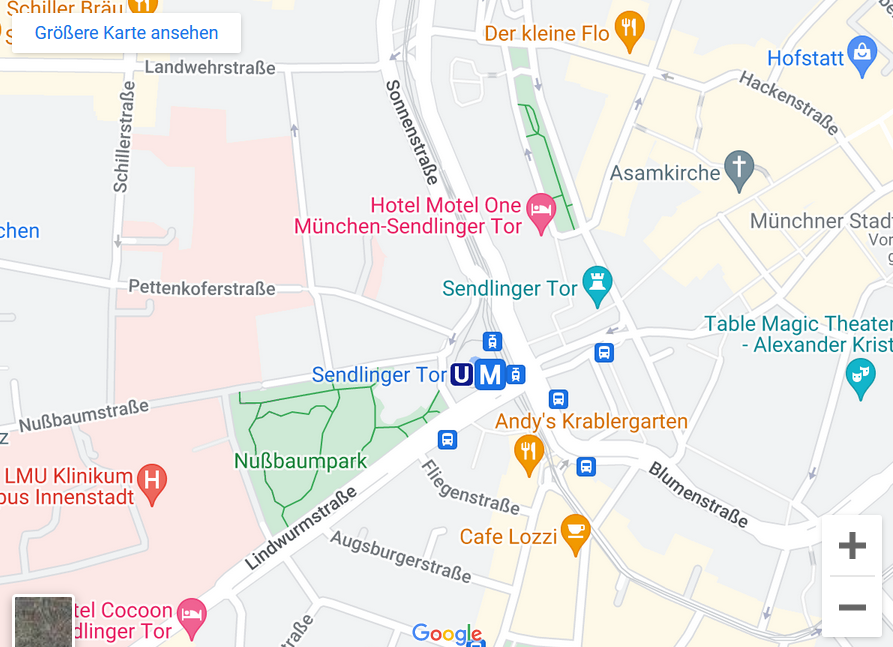
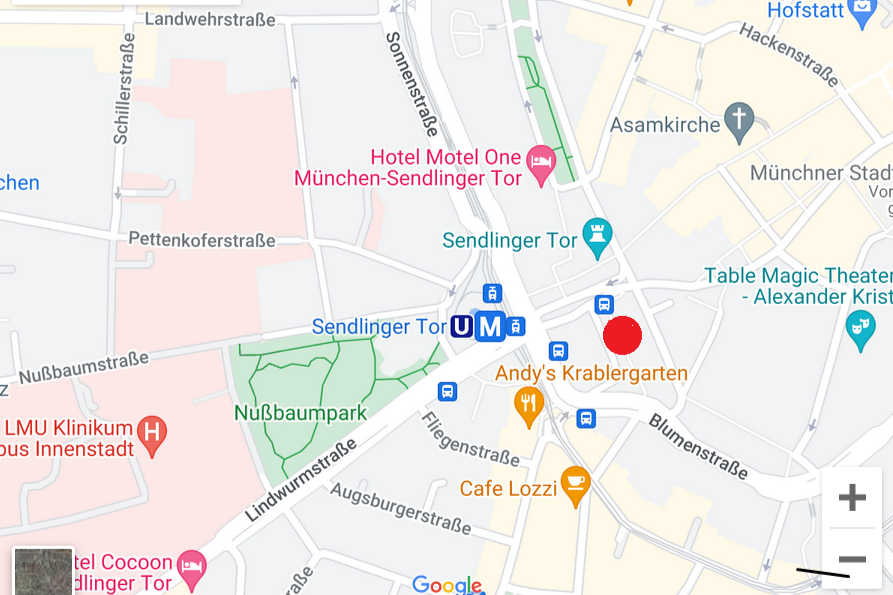
Verschlankt, Impressum

diff --git a/sites/t_trainer.html b/sites/t_trainer.html
@@ -31,7 +31,6 @@
             <i class="fa fa-caret-down"></i>
           </button>
           <div class="dropdown-content">
-            <a href="v_ueber.html">Über uns</a>
             <a href="v_vorstand.html">Vorstand</a>
             <a href="v_anmeldung.html">Anmeldung</a>
             <a href="v_verbaende.html">Verbände</a>
@@ -52,8 +51,6 @@
         <section>
           <header class="text">
             <h2>Unsere Trainer</h2>
-            <h2>todo stimmen noch alle dans? hat wer neue Superkräfte
-              entwickelt?</h2>
           </header>
         </section>
         <section class="myFlexTable">
@@ -84,6 +81,17 @@
             </div>
             <div class="row">
               <div class="column">
+                <img src="../pics/christina.png" alt="Kruno" width="70%">
+              </div>
+              <div class="column">
+                <h3>Christina Müller / ?. Dan</h3>
+                TODO Hier noch Text, was die Christina alles kann.<br />
+                Und wo sie es gelernt hat.<br />
+                Und was ihr Kampfschrei bedeutet.  
+              </div>
+            </div>
+            <div class="row">
+              <div class="column">
                 <img src="../pics/noori.png" alt="Noori" width="70%">
               </div>
               <div class="column">
@@ -92,14 +100,13 @@
                 Karate
                 angefangen. <br />
                 Er nahm an nationalen und internationalen Meisterschaften teil
-                und
-                gewann mehrere Turniere.
-                Auch mit der afghanischen Nationalmanschaft in der Disziplin
+                und gewann mehrere Turniere, auch mit der afghanischen Nationalmanschaft in der Disziplin
                 Kumite.<br />
                 Noori ist bereit uns auch langfristig als Trainer zu
                 unterstützen,
                 was für unseren Verein
-                von großer Bedeutung ist. Noori sagt: "Karate ist mein Leben."
+                von großer Bedeutung ist.<br />
+                "Karate ist mein Leben."
               </div>
             </div>
             <div class="row">
@@ -117,7 +124,7 @@
                 teilnahm. <br />
                 Nach jahrelangem Training legte er seine Danprüfungen 2010 und
                 2017 ab.<br />
-                Als werdender Sportmediziner ergänzt er mit seinem Schwerpunkt
+                Als Sportmediziner ergänzt er mit seinem Schwerpunkt
                 Kumite unseren Trainerstab perfekt.
               </div>
             </div>

diff --git a/sites/kontakt.html b/sites/kontakt.html
@@ -31,7 +31,6 @@
             <i class="fa fa-caret-down"></i>
           </button>
           <div class="dropdown-content">
-            <a href="v_ueber.html">Über uns</a>
             <a href="v_vorstand.html">Vorstand</a>
             <a href="v_anmeldung.html">Anmeldung</a>
             <a href="v_verbaende.html">Verbände</a>
@@ -57,15 +56,17 @@
         <section class="myFlexTable">
           <div class="text">
             <div class="row">
-              <div class="column>">
-                <img src="../pics/logo.png" width="150vw">
-            </div>
               <div class="column">
-                Eine Telefonnummer<br />
-                Eine Email<br />
-                Signal QR<br />
-                Impressum<br />
-                Datenschutz<br />
+                <img src="../pics/logo.png" alt="KaraTe Do"
+                  style="width:10vw;">
+              </div>
+              <div class="column">
+                <p>Am einfachsten lernt ihr uns bei einem <a href="t_probe.html">Probetraining</a> kennen.</p>
+                Falls noch Fragen offen sind:
+                <p>	&#9742; <a href="tel:0171-2316969">Kruno Hrgovcic, 0171-2316969</a></p>
+                <p>&#9993; <a href="mailto:kontakt@karate-muenchen.de">kontakt@karate-muenchen.de</a></p>
+                </br>
+                <p><a href="impressum.html">Impressum</a></p>
               </div>
             </div>
           </div>

diff --git a/sites/t_probe.html b/sites/t_probe.html
@@ -31,7 +31,6 @@
             <i class="fa fa-caret-down"></i>
           </button>
           <div class="dropdown-content">
-            <a href="v_ueber.html">Über uns</a>
             <a href="v_vorstand.html">Vorstand</a>
             <a href="v_anmeldung.html">Anmeldung</a>
             <a href="v_verbaende.html">Verbände</a>
@@ -61,14 +60,13 @@
                 <img src="../pics/blackbelt.png" width="300vw">
               </div>
               <div class="column">
-                Durch unsere drei Probetrainings hast du ausreichend Zeit, uns
-                und
-                Karate als deinen Sport kennenzulernen.<br />
+                Durch unsere drei Probetrainings hast du ausreichend Zeit, Karate
+                und uns kennenzulernen.<br />
                 Schau einfach vorbei oder nimm bei Fragen vorher mit uns <a
                   href="kontakt.html">Kontakt</a> auf!<br />
-                Für das erste Training brauchst noch nicht einmal einen
+                Für das erste Training brauchst Du noch nicht einmal einen
                 Karateanzug.
-                Bring einfach eine Jogginghose und T-Shirt, möglichst weiß, mit.
+                Bring einfach eine Jogginghose und T-Shirt mit.
                 <br>
                 Wir trainieren barfuß.<br />
                 Wenn Du eine Brille trägst, empfehlen wir Kontaktlinsen, anfangs

diff --git a/sites/t_termine.html b/sites/t_termine.html
@@ -31,7 +31,6 @@
             <i class="fa fa-caret-down"></i>
           </button>
           <div class="dropdown-content">
-            <a href="v_ueber.html">Über uns</a>
             <a href="v_vorstand.html">Vorstand</a>
             <a href="v_anmeldung.html">Anmeldung</a>
             <a href="v_verbaende.html">Verbände</a>
@@ -137,7 +136,9 @@
 
                 <h2>So findest Du uns</h2>
                 Wir trainieren in der Turnhalle der Meisterschule für Mode am
-                Sendlinger Torplatz 14 in München.
+                Sendlinger Torplatz 14 in München.</br>
+                Der Eingang ist da, wo der rote Punkt ist!</br>
+              </br>
                 <a
                   href="https://www.google.com/maps/place/Sendlinger-Tor-Platz+14,+80336+M%C3%BCnchen/@48.1337825,11.5654879,17z/data=!3m1!4b1!4m5!3m4!1s0x479ddf5f3077e841:0x16e56ec9b75ea5fc!8m2!3d48.1337789!4d11.5680628?entry=ttu"
                   target="_blank">

diff --git a/index.html b/index.html
@@ -31,7 +31,6 @@
             <i class="fa fa-caret-down"></i>
           </button>
           <div class="dropdown-content">
-            <a href="sites/v_ueber.html">Über uns</a>
             <a href="sites/v_vorstand.html">Vorstand</a>
             <a href="sites/v_anmeldung.html">Anmeldung</a>
             <a href="sites/v_verbaende.html">Verbände</a>

diff --git a/sites/v_anmeldung.html b/sites/v_anmeldung.html
@@ -31,7 +31,6 @@
             <i class="fa fa-caret-down"></i>
           </button>
           <div class="dropdown-content">
-            <a href="v_ueber.html">Über uns</a>
             <a href="v_vorstand.html">Vorstand</a>
             <a href="v_anmeldung.html" class="active">Anmeldung</a>
             <a href="v_verbaende.html">Verbände</a>

diff --git a/sites/v_verbaende.html b/sites/v_verbaende.html
@@ -31,7 +31,6 @@
             <i class="fa fa-caret-down"></i>
           </button>
           <div class="dropdown-content">
-            <a href="v_ueber.html">Über uns</a>
             <a href="v_vorstand.html">Vorstand</a>
             <a href="v_anmeldung.html">Anmeldung</a>
             <a href="v_verbaende.html" class="active">Verbände</a>

diff --git a/sites/v_vorstand.html b/sites/v_vorstand.html
@@ -31,7 +31,6 @@
             <i class="fa fa-caret-down"></i>
           </button>
           <div class="dropdown-content">
-            <a href="v_ueber.html">Über uns</a>
             <a href="v_vorstand.html" class="active">Vorstand</a>
             <a href="v_anmeldung.html">Anmeldung</a>
             <a href="v_verbaende.html">Verbände</a>

diff --git a/sites/karate.html b/sites/karate.html
@@ -31,7 +31,6 @@
             <i class="fa fa-caret-down"></i>
           </button>
           <div class="dropdown-content">
-            <a href="v_ueber.html">Über uns</a>
             <a href="v_vorstand.html">Vorstand</a>
             <a href="v_anmeldung.html">Anmeldung</a>
             <a href="v_verbaende.html">Verbände</a>

diff --git a/sites/pics.html b/sites/pics.html
@@ -31,7 +31,6 @@
             <i class="fa fa-caret-down"></i>
           </button>
           <div class="dropdown-content">
-            <a href="v_ueber.html">Über uns</a>
             <a href="v_vorstand.html">Vorstand</a>
             <a href="v_anmeldung.html">Anmeldung</a>
             <a href="v_verbaende.html">Verbände</a>

diff --git a/sites/t_guertel.html b/sites/t_guertel.html
@@ -31,7 +31,6 @@
             <i class="fa fa-caret-down"></i>
           </button>
           <div class="dropdown-content">
-            <a href="v_ueber.html">Über uns</a>
             <a href="v_vorstand.html">Vorstand</a>
             <a href="v_anmeldung.html">Anmeldung</a>
             <a href="v_verbaende.html">Verbände</a>

diff --git a/sites/t_lehrgang.html b/sites/t_lehrgang.html
@@ -31,7 +31,6 @@
             <i class="fa fa-caret-down"></i>
           </button>
           <div class="dropdown-content">
-            <a href="v_ueber.html">Über uns</a>
             <a href="v_vorstand.html">Vorstand</a>
             <a href="v_anmeldung.html">Anmeldung</a>
             <a href="v_verbaende.html">Verbände</a>
